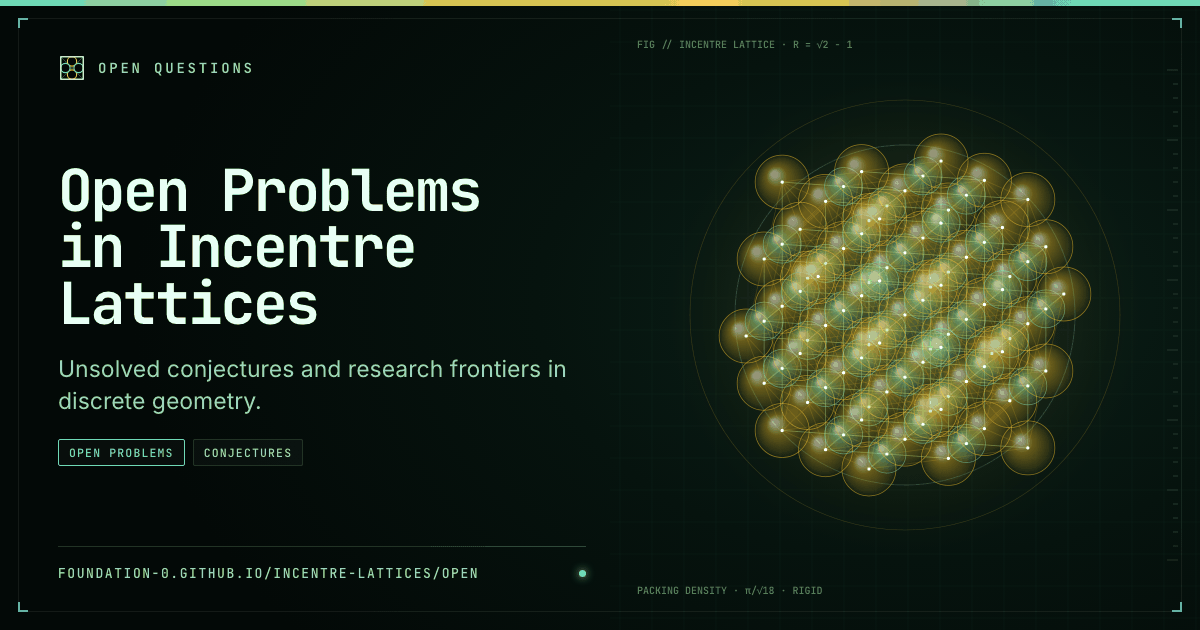
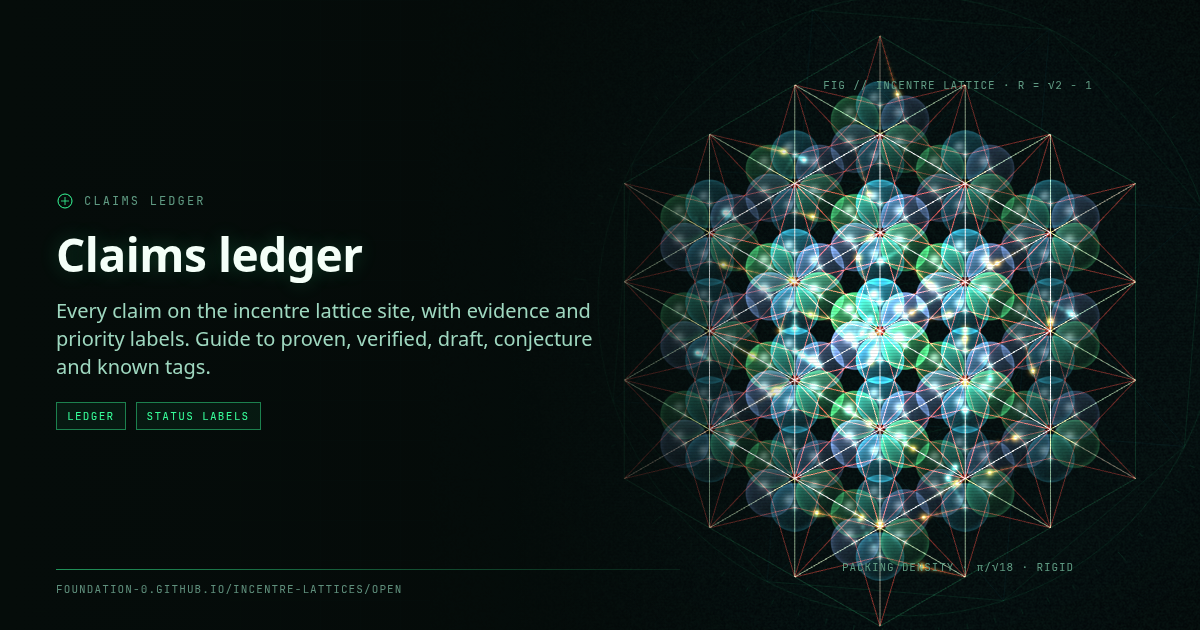
Regenerate ledger and research OG cards from HTML
Redraw og-open and og-research at 1200x630 with page-accurate copy,
update image alt text, and align twitter description with og on research.

diff --git a/tools/og/preview-card.css b/tools/og/preview-card.css
@@ -1,0 +1,25 @@
+html,body{margin:0;width:1200px;height:630px;overflow:hidden;background:#050c0a;
+  background-image:linear-gradient(rgba(55,255,154,.04) 1px,transparent 1px),
+    linear-gradient(90deg,rgba(55,255,154,.04) 1px,transparent 1px);
+  background-size:40px 40px}
+.corner{position:absolute;width:28px;height:28px;border:1px solid rgba(55,255,154,.35)}
+.corner.tl{left:18px;top:18px;border-right:0;border-bottom:0}
+.corner.tr{right:18px;top:18px;border-left:0;border-bottom:0}
+.corner.bl{left:18px;bottom:18px;border-right:0;border-top:0}
+.corner.br{right:18px;bottom:18px;border-left:0;border-top:0}
+iframe.scene{position:absolute;left:430px;top:-24px;width:900px;height:710px;border:0}
+.fade{position:absolute;inset:0;background:linear-gradient(90deg,#050c0a 0%,#050c0ae8 42%,#050c0a00 68%);pointer-events:none}
+.copy{position:absolute;left:56px;top:0;bottom:0;width:560px;display:flex;flex-direction:column;justify-content:center;
+  font-family:ui-sans-serif,-apple-system,Helvetica,Arial,sans-serif;color:#eafff4;padding-right:12px}
+.kick{display:flex;align-items:center;gap:10px;font:12px/1.2 ui-monospace,Menlo,monospace;letter-spacing:.18em;color:#5f9a82;margin-bottom:18px;text-transform:uppercase}
+.kick svg{width:18px;height:18px;flex:none}
+h1{margin:0 0 16px;font:600 46px/1.14 ui-sans-serif,-apple-system,Helvetica,Arial,sans-serif;letter-spacing:-.01em;color:#f4fff8;
+  text-shadow:0 0 20px rgba(55,255,154,.2);max-width:560px}
+.desc{margin:0 0 20px;font-size:20px;line-height:1.42;color:#9fd8c0;max-width:540px}
+.tags{display:flex;gap:10px;flex-wrap:wrap;margin-bottom:8px}
+.tag{font:11px ui-monospace,Menlo,monospace;letter-spacing:.12em;color:#37ff9a;padding:6px 10px;border:1px solid rgba(55,255,154,.45);background:rgba(55,255,154,.06);text-transform:uppercase}
+.foot{position:absolute;left:56px;bottom:34px;right:520px}
+.foot .rule{height:1px;background:linear-gradient(90deg,rgba(55,255,154,.55),rgba(55,255,154,.08));margin-bottom:12px}
+.foot .url{font:11px ui-monospace,Menlo,monospace;letter-spacing:.1em;color:#5f8f7c;text-transform:uppercase}
+.figcap-r{position:absolute;right:52px;top:78px;width:380px;text-align:center;font:11px ui-monospace,Menlo,monospace;letter-spacing:.08em;color:#5f9a82}
+.figcap-r.bot{top:auto;bottom:56px}

diff --git a/research.html b/research.html
@@ -13,12 +13,12 @@
 <meta property="og:image" content="https://foundation-0.github.io/incentre-lattices/assets/og/og-research.png">
 <meta property="og:image:width" content="1200">
 <meta property="og:image:height" content="630">
-<meta property="og:image:alt" content="Incentre Lattice Research: Proofs, packings, and rigidity.">
+<meta property="og:image:alt" content="A continuous route to close packing. Cab-to-fcc motion in review with exact certificate.">
 <meta name="twitter:card" content="summary_large_image">
 <meta name="twitter:title" content="A continuous route to close packing">
-<meta name="twitter:description" content="Explicit cab-to-fcc motion and exact non-overlap certificate. In review; independent specialist review and historical priority remain open.">
+<meta name="twitter:description" content="Explicit cab-to-fcc motion and exact non-overlap certificate. In review; independent human review and historical priority remain open.">
 <meta name="twitter:image" content="https://foundation-0.github.io/incentre-lattices/assets/og/og-research.png">
-<meta name="twitter:image:alt" content="Incentre Lattice Research: Proofs, packings, and rigidity.">
+<meta name="twitter:image:alt" content="A continuous route to close packing. Cab-to-fcc motion in review with exact certificate.">
 </head><body>
 <main class="research">
 <header class="research-hero">

diff --git a/tools/og/research-card.html b/tools/og/research-card.html
@@ -1,0 +1,14 @@
+<!doctype html><html lang="en"><head><meta charset="utf-8"><link rel="stylesheet" href="preview-card.css"></head><body>
+<div class="corner tl"></div><div class="corner tr"></div><div class="corner bl"></div><div class="corner br"></div>
+<iframe class="scene" src="/lattice.html?embed=1&amp;view=corner&amp;mode=spheres&amp;n=3"></iframe>
+<div class="fade"></div>
+<div class="copy">
+ <div class="kick"><svg viewBox="0 0 18 18" aria-hidden="true"><circle cx="9" cy="9" r="7" fill="none" stroke="#37ff9a" stroke-width="1"/><path d="M5 9h8M9 5v8" stroke="#37ff9a" stroke-width=".8"/></svg>Research in review · October 2026</div>
+ <h1>A continuous route to close packing</h1>
+ <p class="desc">Explicit six-ball cab-to-fcc motion with an exact non-overlap certificate. In review; independent human review and historical priority remain open.</p>
+ <div class="tags"><span class="tag">In review</span><span class="tag">Cab to FCC</span></div>
+</div>
+<div class="figcap-r">FIG // INCENTRE LATTICE · R = √2 − 1</div>
+<div class="figcap-r bot">PACKING DENSITY · π/√18 · RIGID</div>
+<div class="foot"><div class="rule"></div><div class="url">foundation-0.github.io/incentre-lattices/research</div></div>
+</body></html>

diff --git a/tools/og/open-card.html b/tools/og/open-card.html
@@ -1,0 +1,14 @@
+<!doctype html><html lang="en"><head><meta charset="utf-8"><link rel="stylesheet" href="preview-card.css"></head><body>
+<div class="corner tl"></div><div class="corner tr"></div><div class="corner bl"></div><div class="corner br"></div>
+<iframe class="scene" src="/lattice.html?embed=1&amp;view=corner&amp;mode=spheres&amp;n=3"></iframe>
+<div class="fade"></div>
+<div class="copy">
+ <div class="kick"><svg viewBox="0 0 18 18" aria-hidden="true"><circle cx="9" cy="9" r="7" fill="none" stroke="#37ff9a" stroke-width="1"/><path d="M5 9h8M9 5v8" stroke="#37ff9a" stroke-width=".8"/></svg>Claims ledger</div>
+ <h1>Claims ledger</h1>
+ <p class="desc">Every claim on the incentre lattice site, with evidence and priority labels. Guide to proven, verified, draft, conjecture and known tags.</p>
+ <div class="tags"><span class="tag">Ledger</span><span class="tag">Status labels</span></div>
+</div>
+<div class="figcap-r">FIG // INCENTRE LATTICE · R = √2 − 1</div>
+<div class="figcap-r bot">PACKING DENSITY · π/√18 · RIGID</div>
+<div class="foot"><div class="rule"></div><div class="url">foundation-0.github.io/incentre-lattices/open</div></div>
+</body></html>

diff --git a/open.html b/open.html
@@ -26,12 +26,12 @@
 <meta property="og:image" content="https://foundation-0.github.io/incentre-lattices/assets/og/og-open.png">
 <meta property="og:image:width" content="1200">
 <meta property="og:image:height" content="630">
-<meta property="og:image:alt" content="Open Problems in Incentre Lattices.">
+<meta property="og:image:alt" content="Claims ledger. Every claim with evidence and priority status labels.">
 <meta name="twitter:card" content="summary_large_image">
 <meta name="twitter:title" content="Claims ledger">
 <meta name="twitter:description" content="Every claim on the incentre lattice site, with evidence and priority labels. Guide to proven, verified, draft, conjecture and known tags.">
 <meta name="twitter:image" content="https://foundation-0.github.io/incentre-lattices/assets/og/og-open.png">
-<meta name="twitter:image:alt" content="Open Problems in Incentre Lattices.">
+<meta name="twitter:image:alt" content="Claims ledger. Every claim with evidence and priority status labels.">
 </head><body>
 <main>
 <div class="kick">08 // LEDGER</div>

diff --git a/tools/og/render_cards.py b/tools/og/render_cards.py
@@ -1,0 +1,69 @@
+#!/usr/bin/env python3
+"""Rasterise 1200×630 Open Graph cards from tools/og/*-card.html via Playwright."""
+from __future__ import annotations
+
+import argparse
+import socket
+import subprocess
+import sys
+import time
+from pathlib import Path
+
+ROOT = Path(__file__).resolve().parents[2]
+
+CARDS = {
+    "open": ("open-card.html", ROOT / "assets/og/og-open.png"),
+    "research": ("research-card.html", ROOT / "assets/og/og-research.png"),
+}
+
+
+def free_port() -> int:
+    with socket.socket(socket.AF_INET, socket.SOCK_STREAM) as s:
+        s.bind(("127.0.0.1", 0))
+        return int(s.getsockname()[1])
+
+
+def serve(root: Path, port: int) -> subprocess.Popen[bytes]:
+    return subprocess.Popen(
+        [sys.executable, "-m", "http.server", str(port), "--bind", "127.0.0.1"],
+        cwd=root,
+        stdout=subprocess.DEVNULL,
+        stderr=subprocess.DEVNULL,
+    )
+
+
+def render(card: str) -> None:
+    from playwright.sync_api import sync_playwright
+
+    html_name, out_path = CARDS[card]
+    port = free_port()
+    server = serve(ROOT, port)
+    try:
+        time.sleep(0.4)
+        url = f"http://127.0.0.1:{port}/tools/og/{html_name}"
+        with sync_playwright() as p:
+            browser = p.chromium.launch()
+            page = browser.new_page(viewport={"width": 1200, "height": 630}, device_scale_factor=1)
+            page.goto(url, wait_until="networkidle", timeout=120_000)
+            page.wait_for_timeout(2500)
+            page.screenshot(path=str(out_path), clip={"x": 0, "y": 0, "width": 1200, "height": 630})
+            browser.close()
+    finally:
+        server.terminate()
+        server.wait(timeout=10)
+    size = __import__("struct").unpack(">II", out_path.read_bytes()[16:24])
+    if size != (1200, 630):
+        raise SystemExit(f"{out_path}: expected 1200×630, got {size[0]}×{size[1]}")
+
+
+def main() -> None:
+    parser = argparse.ArgumentParser()
+    parser.add_argument("cards", nargs="*", choices=CARDS, default=list(CARDS))
+    args = parser.parse_args()
+    for card in args.cards:
+        print(f"render {card} -> {CARDS[card][1]}", flush=True)
+        render(card)
+
+
+if __name__ == "__main__":
+    main()
